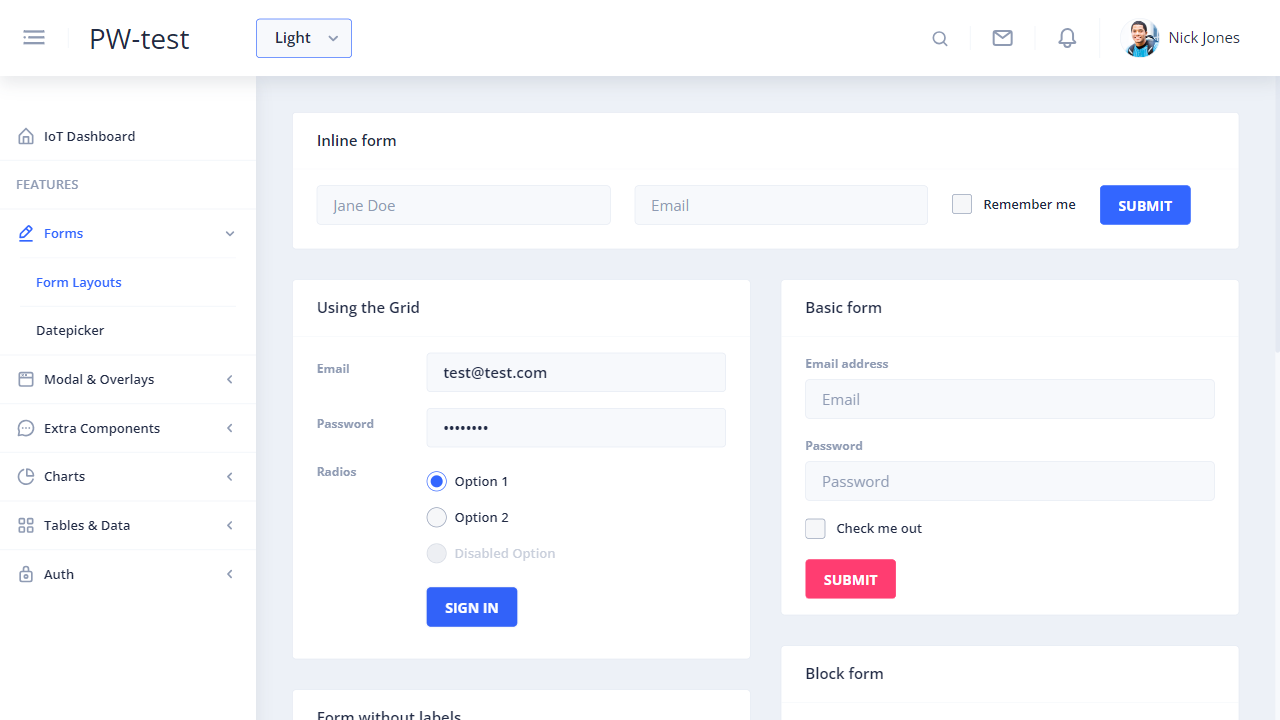
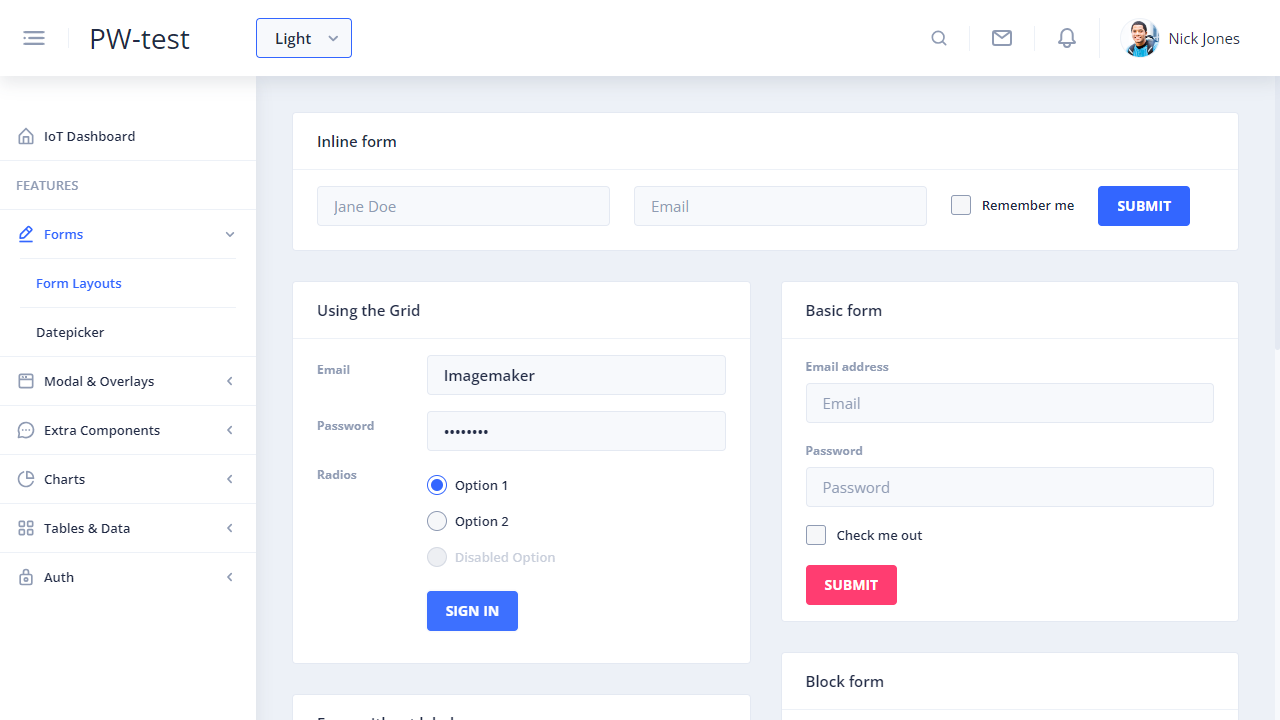
Feature: Environment Variables :sparkles:

diff --git a/playwright.config.ts b/playwright.config.ts
@@ -1,15 +1,16 @@
 import { defineConfig, devices } from '@playwright/test';
+import type { TestOptions } from './test-options';
 
 /**
  * Read environment variables from file.
  * https://github.com/motdotla/dotenv
  */
-// require('dotenv').config();
+require('dotenv').config();
 
 /**
  * See https://playwright.dev/docs/test-configuration.
  */
-export default defineConfig({
+export default defineConfig<TestOptions>({
   testDir: './tests',
   /* Run tests in files in parallel */
   fullyParallel: true,
@@ -24,7 +25,11 @@ export default defineConfig({
   /* Shared settings for all the projects below. See https://playwright.dev/docs/api/class-testoptions. */
   use: {
     /* Base URL to use in actions like `await page.goto('/')`. */
-    // baseURL: 'http://127.0.0.1:3000',
+    baseURL: 'http://localhost:4200/',
+    globalsQaURL: 'https://www.globalsqa.com/demo-site/draganddrop/',
+    //baseURL: process.env.DEV === '1' ? 'http://localhost:4200/'
+    //  : process.env.STAGING == '1' ? 'http://localhost:4202/'
+    //  : 'http://localhost:4201/',
 
     /* Collect trace when retrying the failed test. See https://playwright.dev/docs/trace-viewer */
     trace: 'on-first-retry',
@@ -37,6 +42,21 @@ export default defineConfig({
 
   /* Configure projects for major browsers */
   projects: [
+    {
+      name: 'dev',
+      use: {
+        ...devices['Desktop Chrome'],
+        baseURL: 'http://localhost:4200/'
+      },
+    },
+
+    {name: 'staging',
+      use: {
+      ...devices['Desktop Chrome'],
+        baseURL: 'http://localhost:4202/'
+      },
+    },
+
     {
       name: 'chromium',
       use: { ...devices['Desktop Chrome'] },

diff --git a/tests/usePageObjects.spec.ts b/tests/usePageObjects.spec.ts
@@ -3,7 +3,7 @@ import { PageManager } from '../page-objects/pageManager'
 import {faker} from '@faker-js/faker'
 
 test.beforeEach(async ({ page }) => {
-    await page.goto('http://localhost:4200/')
+    await page.goto('/')
 })
 
 test('Navigate to form page', async ({ page }) => {
@@ -21,7 +21,7 @@ test('Parametrized methods', async ({ page }) => {
     const randomEmail = `${randomFullName.replace(' ', '')}${faker.number.int(1000)}@test.com`
 
     await pm.navigateTo().formLayoutsPage()
-    await pm.onFormLayoutsPage().submitUsingTheGridFormWithCredentialsAndSelectOption('test@test.com', 'Welcome1', 'Option 1')
+    await pm.onFormLayoutsPage().submitUsingTheGridFormWithCredentialsAndSelectOption(process.env.USERNAME, process.env.PASSWORD, 'Option 1')
     await page.screenshot({path: 'screenshots/formsLayoutsPage.png'})
     const buffer = await page.screenshot()
     console.log(buffer.toString('base64'))

diff --git a/tests/dragAndDropWithiFrame.spec.ts b/tests/dragAndDropWithiFrame.spec.ts
@@ -1,7 +1,8 @@
-import {test, expect} from '@playwright/test'
+import {expect} from '@playwright/test'
+import {test} from '../test-options'
 
-test('Drag and drop with iframe', async ({page})=> {
-    await page.goto('https://www.globalsqa.com/demo-site/draganddrop/')
+test('Drag and drop with iframe', async ({page, globalsQaURL})=> {
+    await page.goto(globalsQaURL)
 
     const frame = page.frameLocator('[rel-title="Photo Manager"] iframe')
     await frame.locator('li', {hasText: "High Tatras 2"}).dragTo(frame.locator('#trash'))

diff --git a/tests/autoWaiting.spec.ts b/tests/autoWaiting.spec.ts
@@ -1,8 +1,9 @@
 import {test, expect} from '@playwright/test'
 
-test.beforeEach(async({page}) => { 
-    await page.goto('http://uitestingplayground.com/ajax')
+test.beforeEach(async({page}, testInfo) => { 
+    await page.goto(process.env.URL)
     await page.getByText('Button Triggering AJAX Request').click()
+    testInfo.setTimeout(testInfo.timeout + 2000)
 })
 
 test('Auto waiting', async ({page}) => {

diff --git a/tests/firstTest.spec.ts b/tests/firstTest.spec.ts
@@ -2,7 +2,7 @@ import {test, expect} from '@playwright/test'
 
 
 test.beforeEach(async({page}) => { 
-    await page.goto('http://localhost:4200/')
+    await page.goto('/')
     await page.getByText('Forms').click()
     await page.getByText('Form Layouts').click()
 })

diff --git a/tests/uiComponents.spec.ts b/tests/uiComponents.spec.ts
@@ -1,7 +1,7 @@
 import {test, expect} from '@playwright/test'
 
 test.beforeEach(async({page}) => {
-    await page.goto('http://localhost:4200/')
+    await page.goto('/')
 })
 
 test.describe.only('Form Layouts page', () => {

diff --git a/test-options.ts b/test-options.ts
@@ -1,0 +1,9 @@
+import {test as base} from '@playwright/test'
+
+export type TestOptions = {
+    globalsQaURL: string
+}
+
+export const test = base.extend<TestOptions>({
+    globalsQaURL: ['', {option: true}]
+})
